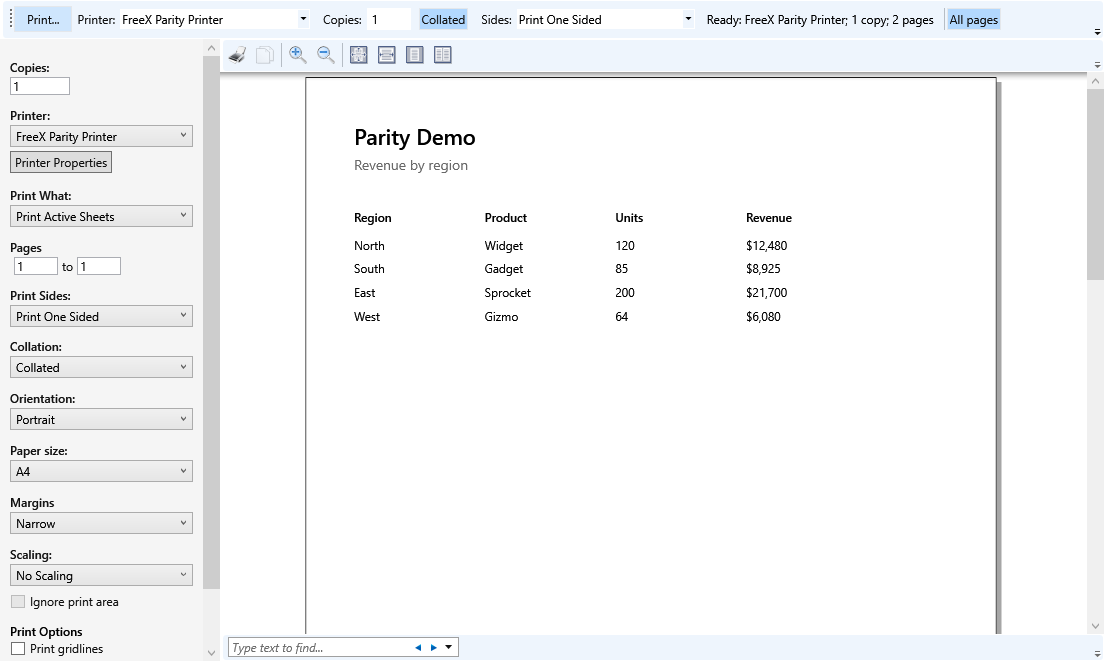
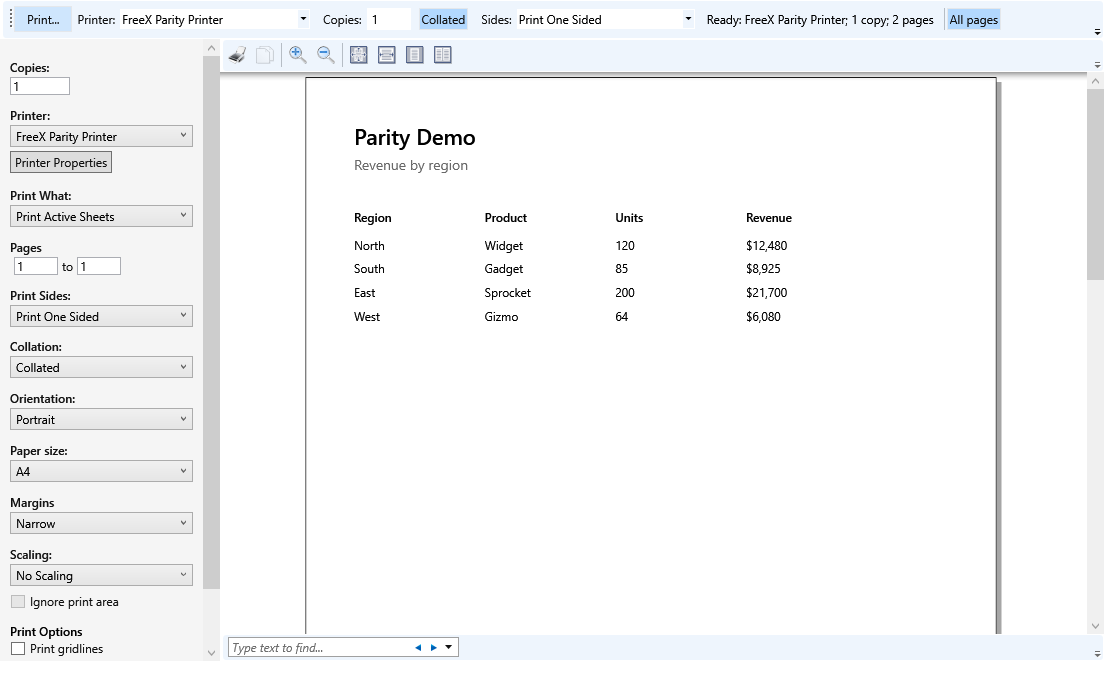
Refresh PrintPreview dialog visual evidence

diff --git a/docs/parity/dialog-visual-evidence-summary.md b/docs/parity/dialog-visual-evidence-summary.md
@@ -31,7 +31,7 @@ Sources:
 | WPF manifest ids without Avalonia pair | 0 |
 | Additional Avalonia captured surface ids needing WPF pair | 73 |
 | Nonblank PNG check failures | 0 |
-| Paired dimension mismatches | 15 |
+| Paired dimension mismatches | 14 |
 
 ## Top paired visual outliers
 
@@ -39,7 +39,7 @@ Outliers are ranked by a deterministic triage score: normalized 32x32 ARGB sampl
 
 | Surface id | WPF size | Avalonia size | Score | Sample delta | Luma delta | Non-bg delta |
 | --- | ---: | ---: | ---: | ---: | ---: | ---: |
-| dialog.PrintPreview | 1104x661 | 1120x700 | 0.609 | 0.086 | 0.050 | 0.400 |
+| dialog.PrintPreview | 1120x700 | 1120x700 | 0.512 | 0.141 | 0.017 | 0.353 |
 | dialog.Options.Formulas | 744x777 | 760x560 | 0.420 | 0.026 | 0.017 | 0.076 |
 | dialog.ConditionalFormatNewRule | 634x334 | 640x380 | 0.336 | 0.042 | 0.015 | 0.131 |
 | dialog.Options.QuickAccessToolbar | 744x521 | 760x560 | 0.243 | 0.024 | 0.019 | 0.104 |
@@ -73,7 +73,7 @@ Outliers are ranked by a deterministic triage score: normalized 32x32 ARGB sampl
 | dialog.PageSetup.Margins | dialog.PageSetup.Margins.png | 600x560 | True | dialog.PageSetup.Margins.png | 600x560 | True | 0.041 |
 | dialog.PageSetup.Page | dialog.PageSetup.Page.png | 600x560 | True | dialog.PageSetup.Page.png | 600x560 | True | 0.091 |
 | dialog.PageSetup.Sheet | dialog.PageSetup.Sheet.png | 600x560 | True | dialog.PageSetup.Sheet.png | 600x560 | True | 0.117 |
-| dialog.PrintPreview | dialog.PrintPreview.png | 1104x661 | True | dialog.PrintPreview.png | 1120x700 | True | 0.609 |
+| dialog.PrintPreview | dialog.PrintPreview.png | 1120x700 | True | dialog.PrintPreview.png | 1120x700 | True | 0.512 |
 
 ## Additional Avalonia manifest surfaces needing WPF pair
 
